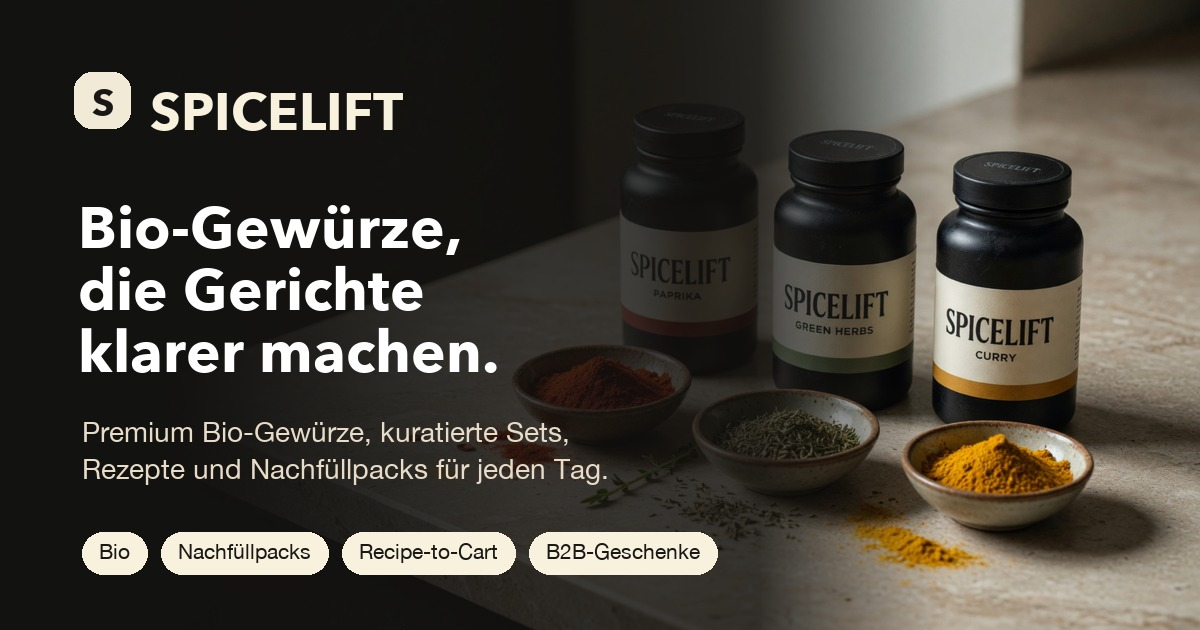
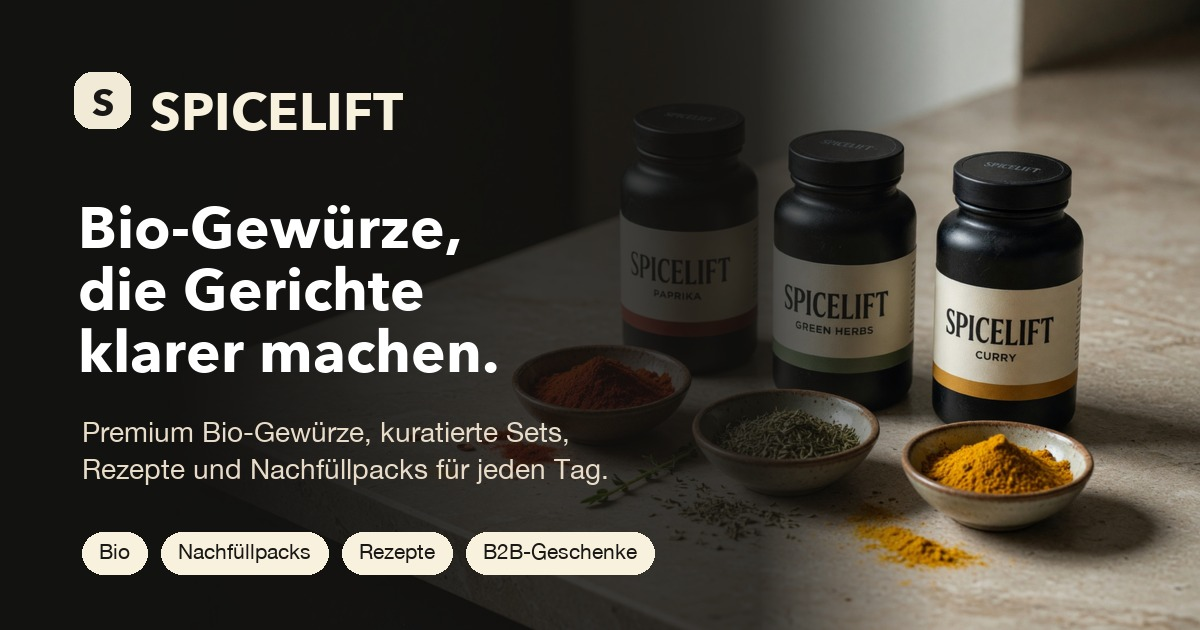
Polish Spicelift German storefront copy

Changed region(s): [[0.3083, 0.8444, 0.6167, 0.9349]]

diff --git a/scripts/create-social-share.py b/scripts/create-social-share.py
@@ -56,7 +56,7 @@ draw.text((78, 314), "klarer machen.", font=headline, fill="#ffffff")
 draw.text((82, 415), "Premium Bio-Gewürze, kuratierte Sets,", font=copy, fill="#e8dcc9")
 draw.text((82, 452), "Rezepte und Nachfüllpacks für jeden Tag.", font=copy, fill="#e8dcc9")
 
-chips = ["Bio", "Nachfüllpacks", "Recipe-to-Cart", "B2B-Geschenke"]
+chips = ["Bio", "Nachfüllpacks", "Rezepte", "B2B-Geschenke"]
 x = 82
 for chip in chips:
     text_w = draw.textbbox((0, 0), chip, font=small)[2]